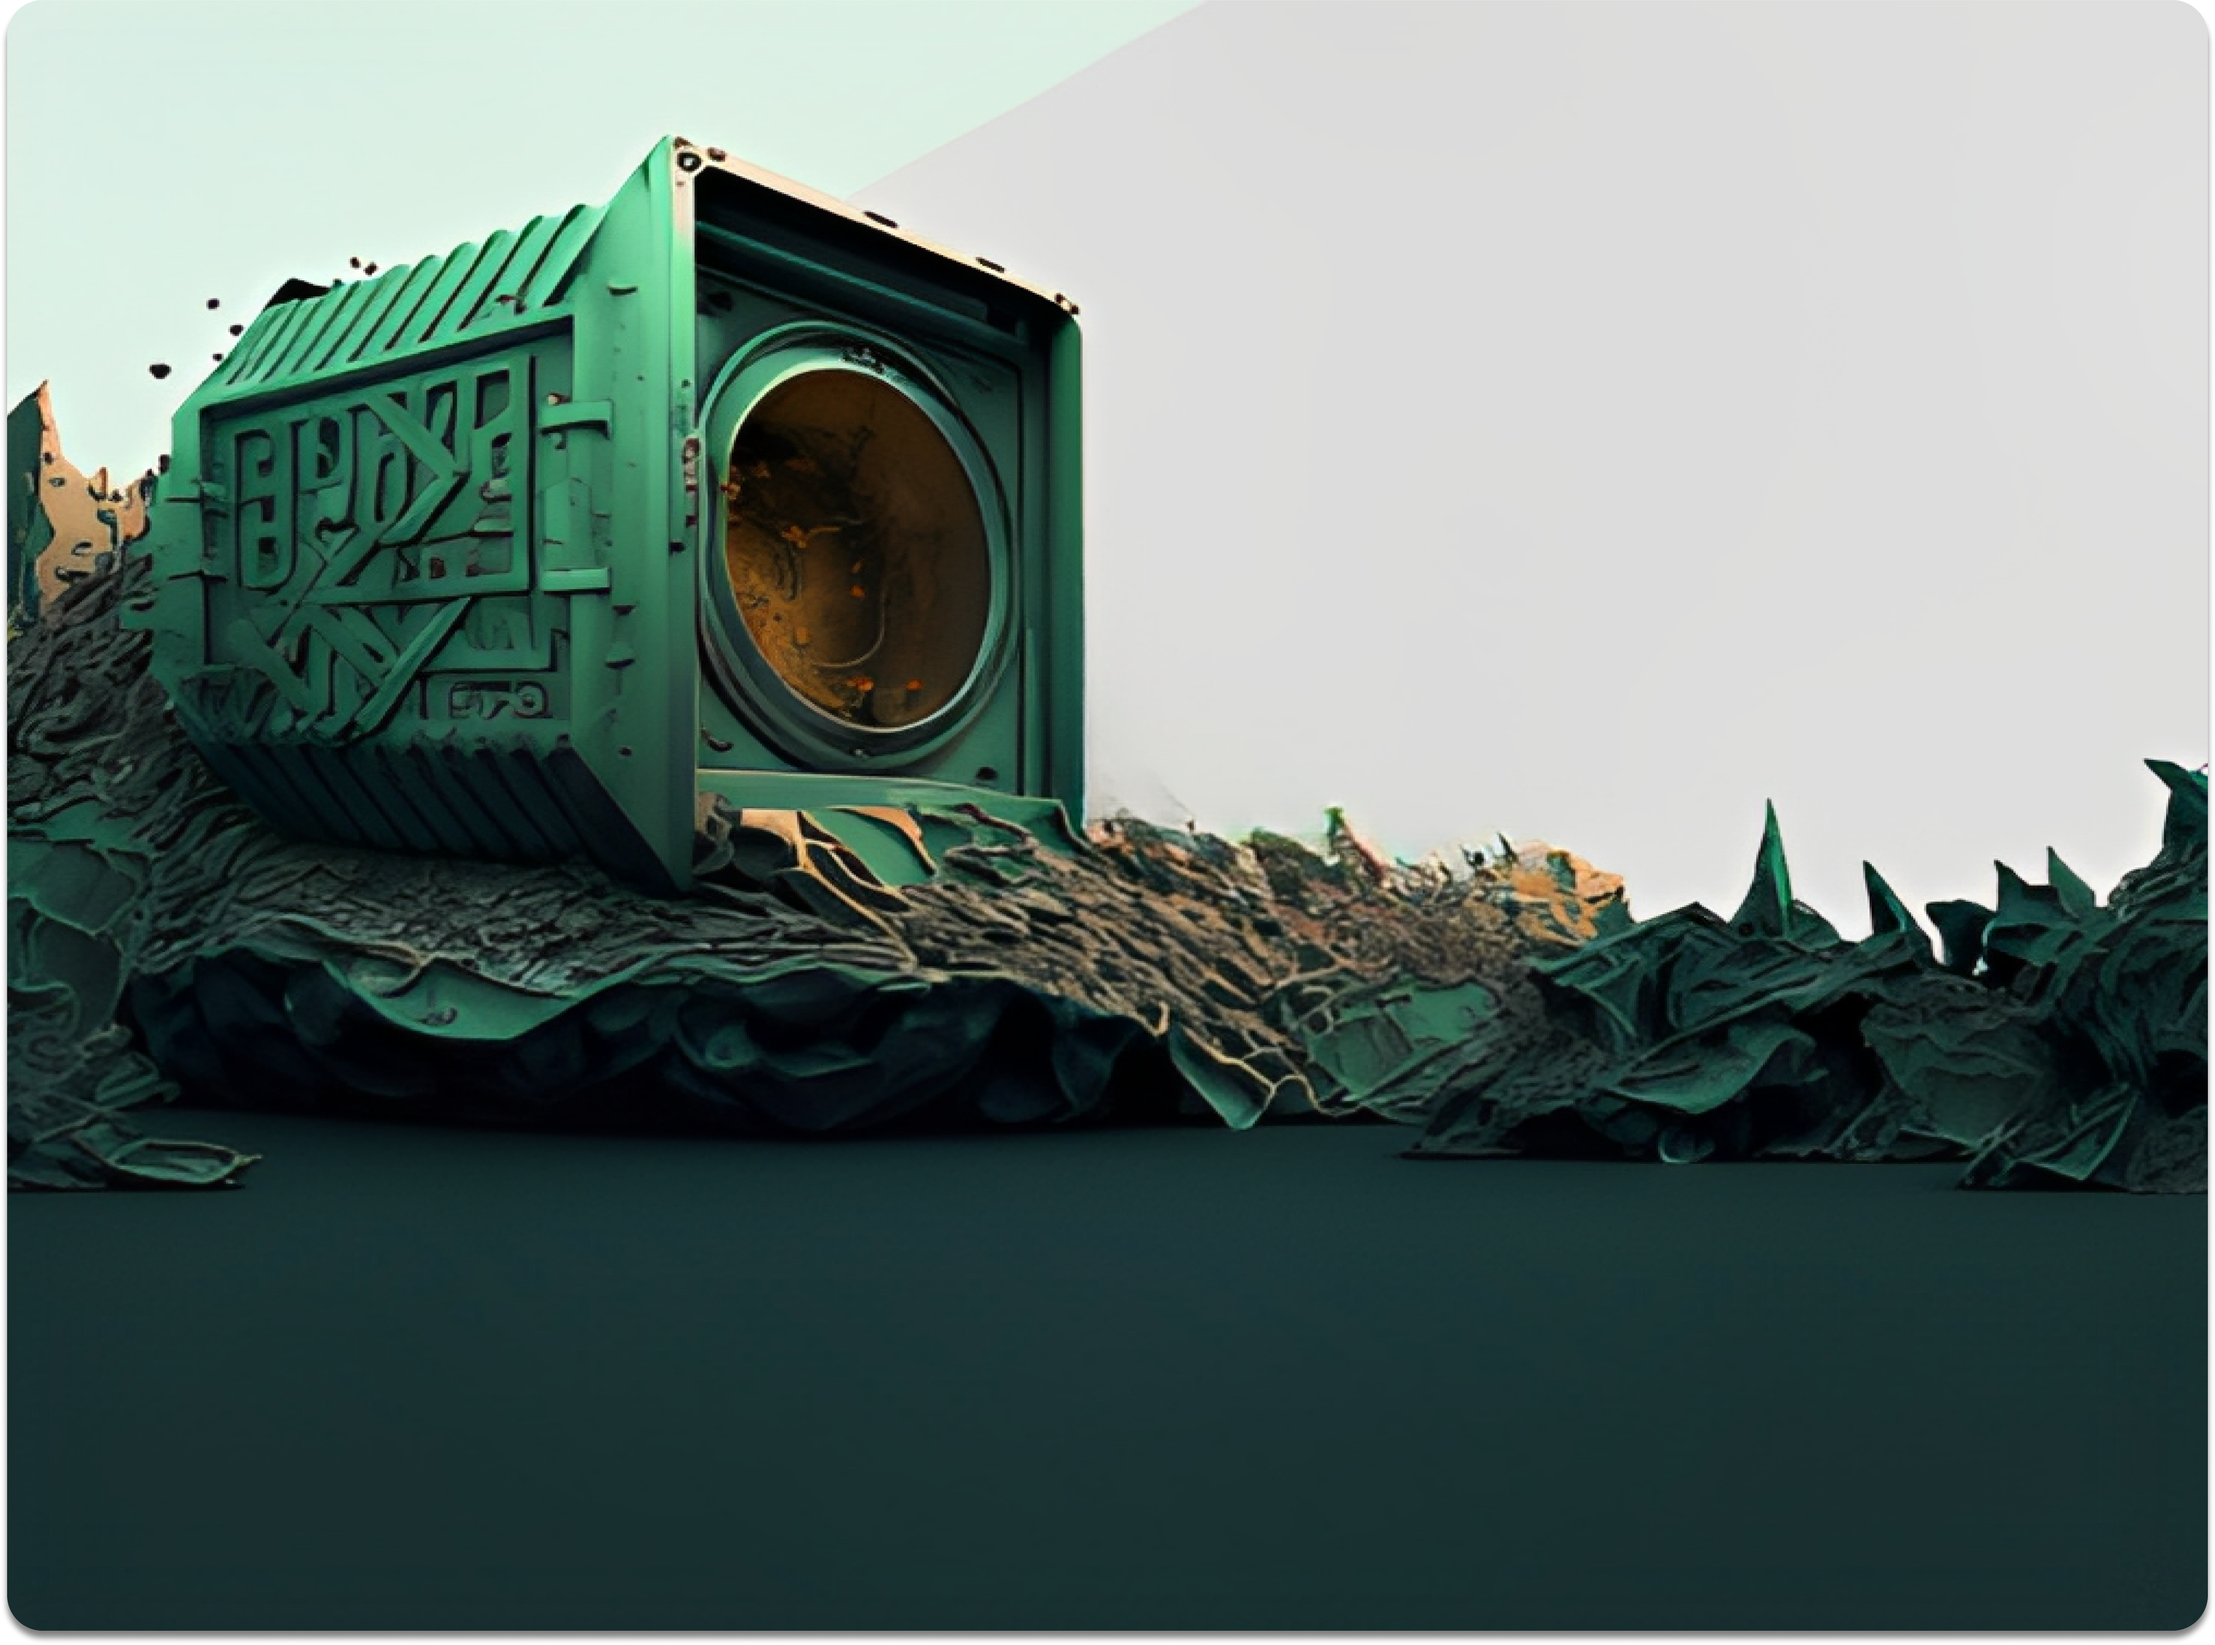
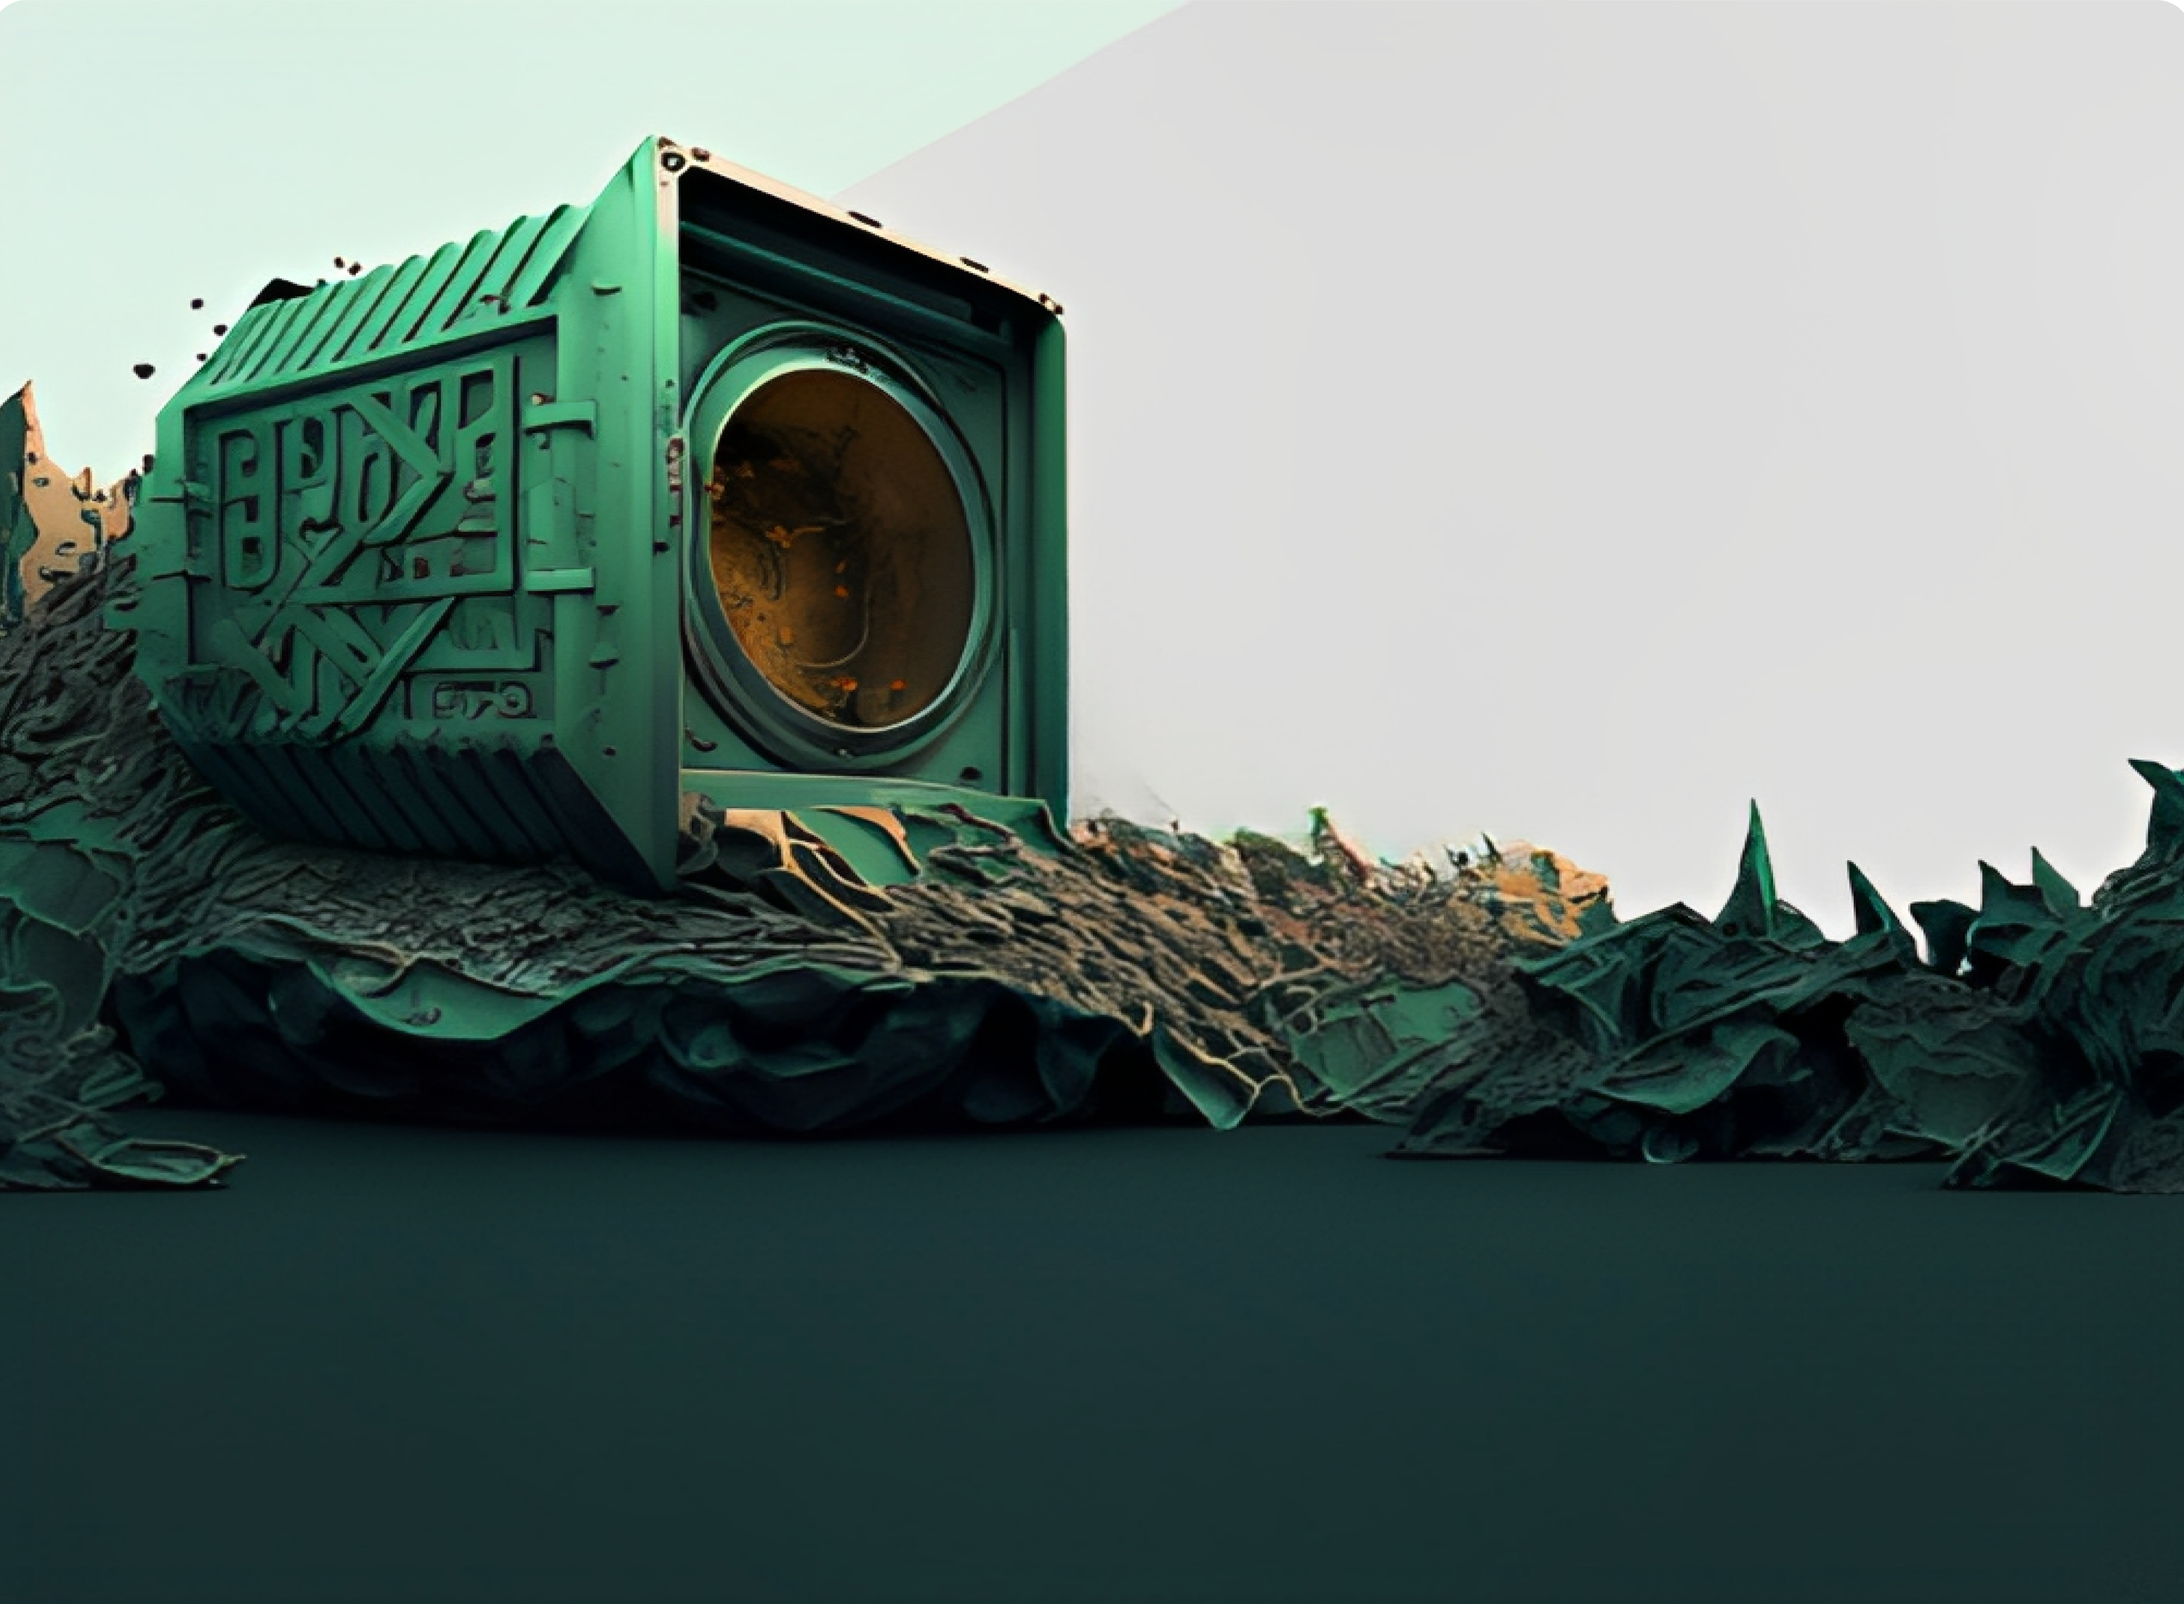
home screen added but can't fix button issue of moving left and down

Changed region(s): [[0.0, 0.0, 1.0, 1.0], [0.0, 0.0, 0.0312, 0.0311]]

diff --git a/css/style.css b/css/style.css
@@ -1,26 +1,109 @@
+@import url(myfont.css);
 * {
     margin: 0;
     padding: 0;
     box-sizing: border-box;
 }
+main {
+    width: 100%;
+    overflow: hidden;
+}
 header {
     width: 100%;
-    height: 700px;
+    height: 1024px;
     background: linear-gradient(#429671, #142122, #0f1a1e);
     margin: auto;
     position: relative;
     overflow: hidden;
 }
-.inner {
+.wrapper {
     position: absolute;
-    width: 90%;
-    height: 600px;
-    background: #eff1ed;
+    width: 1240px;
+    height: 924px;
+    background: #ccc url(../images/Frame\ 3.png) no-repeat center/cover;
     margin-block: 50px;
-    margin-inline: 70px;
+    margin-inline: 130px;
     border-radius: 20px;
     -webkit-border-radius: 20px;
     -moz-border-radius: 20px;
     -ms-border-radius: 20px;
     -o-border-radius: 20px;
+}
+.inner {
+    width: 100%;
+    padding-inline: 40px;
+}
+.logo {
+    width: 250px;
+    height: 50px;
+    float: left;
+}
+.logo img {
+    width: 140px;
+    vertical-align: middle;
+    margin: 20px 60px;
+    line-height: 70px;
+}
+nav {
+    width: 500px;
+    height: 70px;
+    float: right;
+}
+nav ul {
+    list-style-type: none;
+}
+nav ul li {
+    width: 100px;
+    height: 70px;
+    line-height: 70px;
+    float: left;
+    cursor: pointer;
+    font-size: 17px;
+    font-family: vagr1;
+    color: #626264;
+}
+.active {
+    color: #1db954;
+}
+.btn1 {
+    padding: 2px 18px;
+    border-radius: 25px;
+    border: 1px solid #1db954;
+    background: #1db954;
+    color: #fff;
+    -webkit-border-radius: 25px;
+    -moz-border-radius: 25px;
+    -ms-border-radius: 25px;
+    -o-border-radius: 25px;
+}
+.header-content {
+    clear: both;
+    width: 100%;
+    padding: 110px;
+    font-family: vagr1;
+    line-height: 45px;
+    margin-left: 650px;
+}
+.header-content p {
+    font-size: 35px;
+    color: #2a2a2b;
+}
+.title {
+    color: #1db954;
+}
+.header-btn {
+    width: 70%;
+    height: 250px;
+}
+.header-btn .btn2 {
+    padding: 10px 110px;
+    background: #1db954;
+    border: 7px solid #1db954;
+    border-radius: 20px;
+    -webkit-border-radius: 20px;
+    -moz-border-radius: 20px;
+    -ms-border-radius: 20px;
+    -o-border-radius: 20px;
+    text-align: center;
+    color: #fff;
 }

diff --git a/index.html b/index.html
@@ -1,6 +1,5 @@
 <!DOCTYPE html>
 <html lang="en">
-
 <head>
     <meta charset="UTF-8">
     <meta http-equiv="X-UA-Compatible" content="IE=edge">
@@ -8,11 +7,32 @@
     <title>Document</title>
     <link rel="stylesheet" href="css/style.css">
 </head>
-
 <body>
-    <header>
-        <div class="inner"></div>
-    </header>
+    <main>
+        <header>
+            <div class="wrapper">
+                <div class="inner">
+                    <div class="logo">
+                        <img src="images/hopexx-removebg-preview 1.png" alt="">
+                    </div>
+                    <nav>
+                        <ul>
+                            <li class="active">Home</li>
+                            <li>About Us</li>
+                            <li>Our Team</li>
+                            <li>Contact</li>
+                            <li><span class="btn1">Download</span></li>
+                        </ul>
+                    </nav>
+                </div>
+                <div class="header-content">
+                    <p>OUR SOLUTION<br>FOR<br><span class="title">EARNING<br>MONEY</span></p>
+                    <div class="header-btn">
+                        <span class="btn2">Get Started</span>
+                    </div>
+                </div>
+            </div>
+        </header>
+    </main>
 </body>
-
 </html>

diff --git a/css/myfont.css b/css/myfont.css
@@ -1,0 +1,4 @@
+@font-face {
+    font-family: vagr1;
+    src: url(../fonts/VAGRundschriftBQ.otf);
+}
